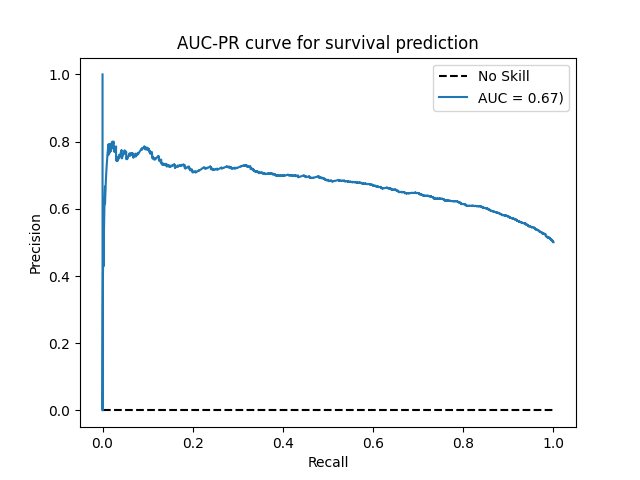
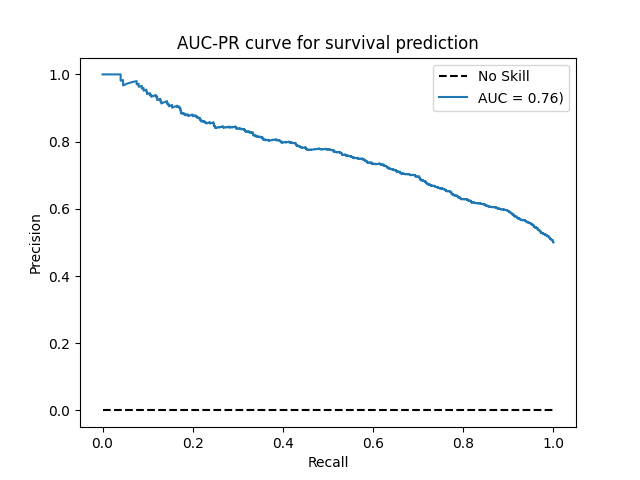
Modelo de supervivencia nuevo con learning rate más bajo parece que da mejores resultados; inferencias de metástasis y recidivas ejecutadas pero no guardadas las métricas.

diff --git a/clinical/image/survival/inference/codes/tcga_survival_inference.py b/clinical/image/survival/inference/codes/tcga_survival_inference.py
@@ -13,10 +13,10 @@ from sklearn.metrics import confusion_matrix
 
 """ Se carga el modelo de red neuronal entrenado y los distintos datos de entrada y datos de salida guardados en formato 
 'numpy' """
-model = load_model('/home/avalderas/img_slides/clinical/image/survival/inference/models/model_image_survival_')
+model = load_model('/home/avalderas/img_slides/clinical/image/survival/inference/models/model_image_survival_27_0.55.h5')
 
-test_image_data = np.load('/home/avalderas/img_slides/clinical/image/survival/inference/test data/test_image.npy')
-test_labels_survival = np.load('/home/avalderas/img_slides/clinical/image/survival/inference/test data/test_labels_survival.npy')
+test_image_data = np.load('/home/avalderas/img_slides/clinical/image/survival/inference/test data/test_image_try1.npy')
+test_labels_survival = np.load('/home/avalderas/img_slides/clinical/image/survival/inference/test data/test_labels_survival_try1.npy')
 
 """ Una vez entrenado el modelo, se puede evaluar con los datos de test y obtener los resultados de las métricas
 especificadas en el proceso de entrenamiento. En este caso, se decide mostrar los resultados de la 'loss', la exactitud,
